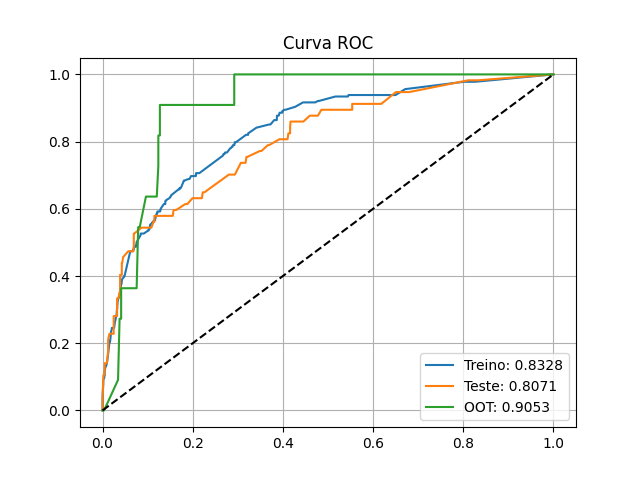
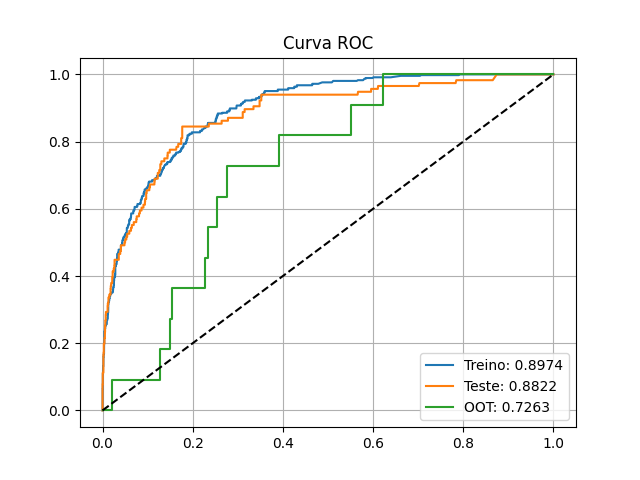
Ta indo

diff --git a/src/analytics/pipeline_analytics.py b/src/analytics/pipeline_analytics.py
@@ -1,9 +1,6 @@
 # %%
-
 from exec_query import exec_query
-
 import datetime
-
 now = datetime.datetime.now().strftime("%Y-%m-%d")
 
 steps = [
@@ -14,34 +11,46 @@ steps = [
         "dt_start":now,
         "dt_stop":now,
         "monthly":False,
-        "mode":"replace",
+        "mode":"append"
+
     },
     {
         "table":"fs_transacional",
-        "db_origin":"loyalty-system",
+        "db_origin":"loyalty_system",
         "db_target":"analytics",
         "dt_start":now,
         "dt_stop":now,
         "monthly":False,
-        "mode":"replace",
+        "mode":"append"
+
     },
     {
         "table":"fs_educational",
-        "db_origin":"education-platform",
+        "db_origin":"education_platform",
         "db_target":"analytics",
         "dt_start":now,
         "dt_stop":now,
         "monthly":False,
-        "mode":"replace",
+        "mode":"append"
+    },
+    {
+        "table":"clients",
+        "db_origin":"loyalty_system",
+        "db_target":"analytics",
+        "dt_start":now,
+        "dt_stop":now,
+        "monthly":False,
+        "mode":"append"
+
     },
     {
         "table":"fs_life_cycle",
         "db_origin":"analytics",
         "db_target":"analytics",
-        "dt_start":now,
+        "dt_start":'2025-01-01',
         "dt_stop":now,
         "monthly":False,
-        "mode":"replace",
+
     },
     {
         "table":"fs_all",
@@ -50,12 +59,40 @@ steps = [
         "dt_start":now,
         "dt_stop":now,
         "monthly":False,
-        "mode":"replace",
+
+    },
+    {
+        "table":"sau",
+        "db_origin":"loyalty_system",
+        "db_target":"analytics",
+        "dt_start":now,
+        "dt_stop":now,
+        "monthly":False,
+    },
+    {
+        "table":"plot_sau",
+        "db_origin":"analytics",
+        "db_target":"analytics",
+        "dt_start":now,
+        "dt_stop":now,
+        "monthly":False,
     },
     {
         "table":"meta_ciclo",
-        "db_origin":"analytics"
-    }
+        "db_origin":"analytics",
+        "db_target":"analytics",
+        "dt_start":now,
+        "dt_stop":now,
+        "monthly":False,
+    },     
+    {
+        "table":"dia_venda",
+        "db_origin":"analytics",
+        "db_target":"analytics",
+        "dt_start":now,
+        "dt_stop":now,
+        "monthly":False,
+    },        
 ]
 
 for s in steps:

diff --git a/src/analytics/exec_query.py b/src/analytics/exec_query.py
@@ -2,14 +2,22 @@
 import argparse
 import datetime
 from tqdm import tqdm
-
+from pathlib import Path
 import pandas as pd
 import sqlalchemy
 
 
-def import_query(path):
-    with open(path) as open_file:
+def import_query(tb):
+    # Busca universal de caminho
+    current_dir = Path(__file__).parent
+    sql_path = current_dir / f"{tb}"
+    
+    if not sql_path.exists():
+        raise FileNotFoundError(f"Arquivo SQL não encontrado: {sql_path}")
+    
+    with open(sql_path, 'r', encoding='utf-8') as open_file:
         query = open_file.read()
+    
     return query
 
 
@@ -28,8 +36,18 @@ def date_range(start, stop, monthly=False):
 
 def exec_query(table, db_origin, db_target, dt_start, dt_stop, monthly, mode='append'):
     
-    engine_app = sqlalchemy.create_engine(f"sqlite:///../../data/{db_origin}/database.db")
-    engine_analytical = sqlalchemy.create_engine(f"sqlite:///../../data/{db_target}/database.db")
+    current_dir = Path(__file__).parent  # src/analytics/
+    project_root = current_dir.parent.parent  # raiz do projeto
+    
+    db_origin_path = project_root / "data" / db_origin / "database.db"
+    db_target_path = project_root / "data" / db_target / "database.db"
+    
+    # Cria diretórios se não existirem
+    db_origin_path.parent.mkdir(parents=True, exist_ok=True)
+    db_target_path.parent.mkdir(parents=True, exist_ok=True)
+    
+    engine_app = sqlalchemy.create_engine(f"sqlite:///{db_origin_path}")
+    engine_analytical = sqlalchemy.create_engine(f"sqlite:///{db_target_path}")
 
     query = import_query(f"{table}.sql")
     dates = date_range(dt_start, dt_stop, monthly)

diff --git a/app.py b/app.py
@@ -1,6 +1,6 @@
 import streamlit as st
 import pandas as pd
-from st.plot import line_con1, bar_con1, met1
+from st.plot import line_con1, bar_con1, met1, met2
 
 # =========================
 # CONFIG
@@ -104,13 +104,19 @@ with st.container():
 # # =========================
 # # CONTAINER 3 (3 BOXES COM MÉTRICAS)
 # # =========================
-with st.container(gap='xsmall'):
+with st.container(gap='small'):
     c1,c2,c3 = st.columns(3, gap='small')
     with c1:
         m1 = met1()
-        st.metric("meta de frequencia para Turistas", m1 )
-#     with c2:
-        
+        st.metric("Meta de frequência média atingida", m1)
+    with c2:
+        b = met2()
+        data = pd.to_datetime(b["StarDay"]).strftime("%d/%m/%Y")
+        valor = int(b["compras_no_dia"])    
+        st.metric(
+            label="SAU",
+            value=f"{valor}",
+            delta=f"Data de maior venda da semana: {data}")
 #     with c3:
 # # =========================
 # # CONTAINER 4 (2 BOXES COM GRÁFICOS)

diff --git a/src/analytics/train.py b/src/analytics/train.py
@@ -93,7 +93,7 @@ df_train.groupby('descLifeCycleFoto')[target].mean()
 
 # %%
 df_train.groupby('descLifeCycleD28')[target].mean()
-
+# to_remove = bivariada[bivariada['ratio']==1].index.tolist()
 # cols_com_na = X_train.columns[X_train.isna().any()].tolist()
 # na_que_estao_em_to_remove = sorted(set(cols_com_na) & set(to_remove))
 # na_que_nao_estao_em_to_remove = sorted(set(cols_com_na) - set(to_remove))
@@ -123,7 +123,7 @@ drop_features = selection.DropFeatures(to_remove)
 
 # MODIFY - MISSING
 
-fill_0 = ['python2025']
+fill_0 = ['python2025', 'github2025']
 imput_0 = imputation.ArbitraryNumberImputer(arbitrary_number=0,
                                             variables=fill_0)
 

diff --git a/st/plot.py b/st/plot.py
@@ -119,16 +119,16 @@ def bar_con1():
 def met1():
     con = consql()
     df = pd.read_sql("SELECT * FROM meta_ciclo", con)
-    m = df.sort_values('dtRef_week', ascending=False)
-    m = m['Meta_Percentual'].head(1).values[0]
+    df = df.sort_values('dtRef_week', ascending=False)
+    m = df['Meta_Percentual'].iloc[0]
     return m
 
-# def met2():
-#     con = consql()
-#     df = pd.read_sql("SELECT * FROM qtd_ciclo", con)
+def met2():
+    con = consql()
+    df = pd.read_sql("SELECT * FROM dia_venda", con)
     
-#     m =
-#     return m
+    m = df.sort_values("dtRef_week", ascending=False).iloc[0]    
+    return m
 
 # def met3():
 #     con = consql()
